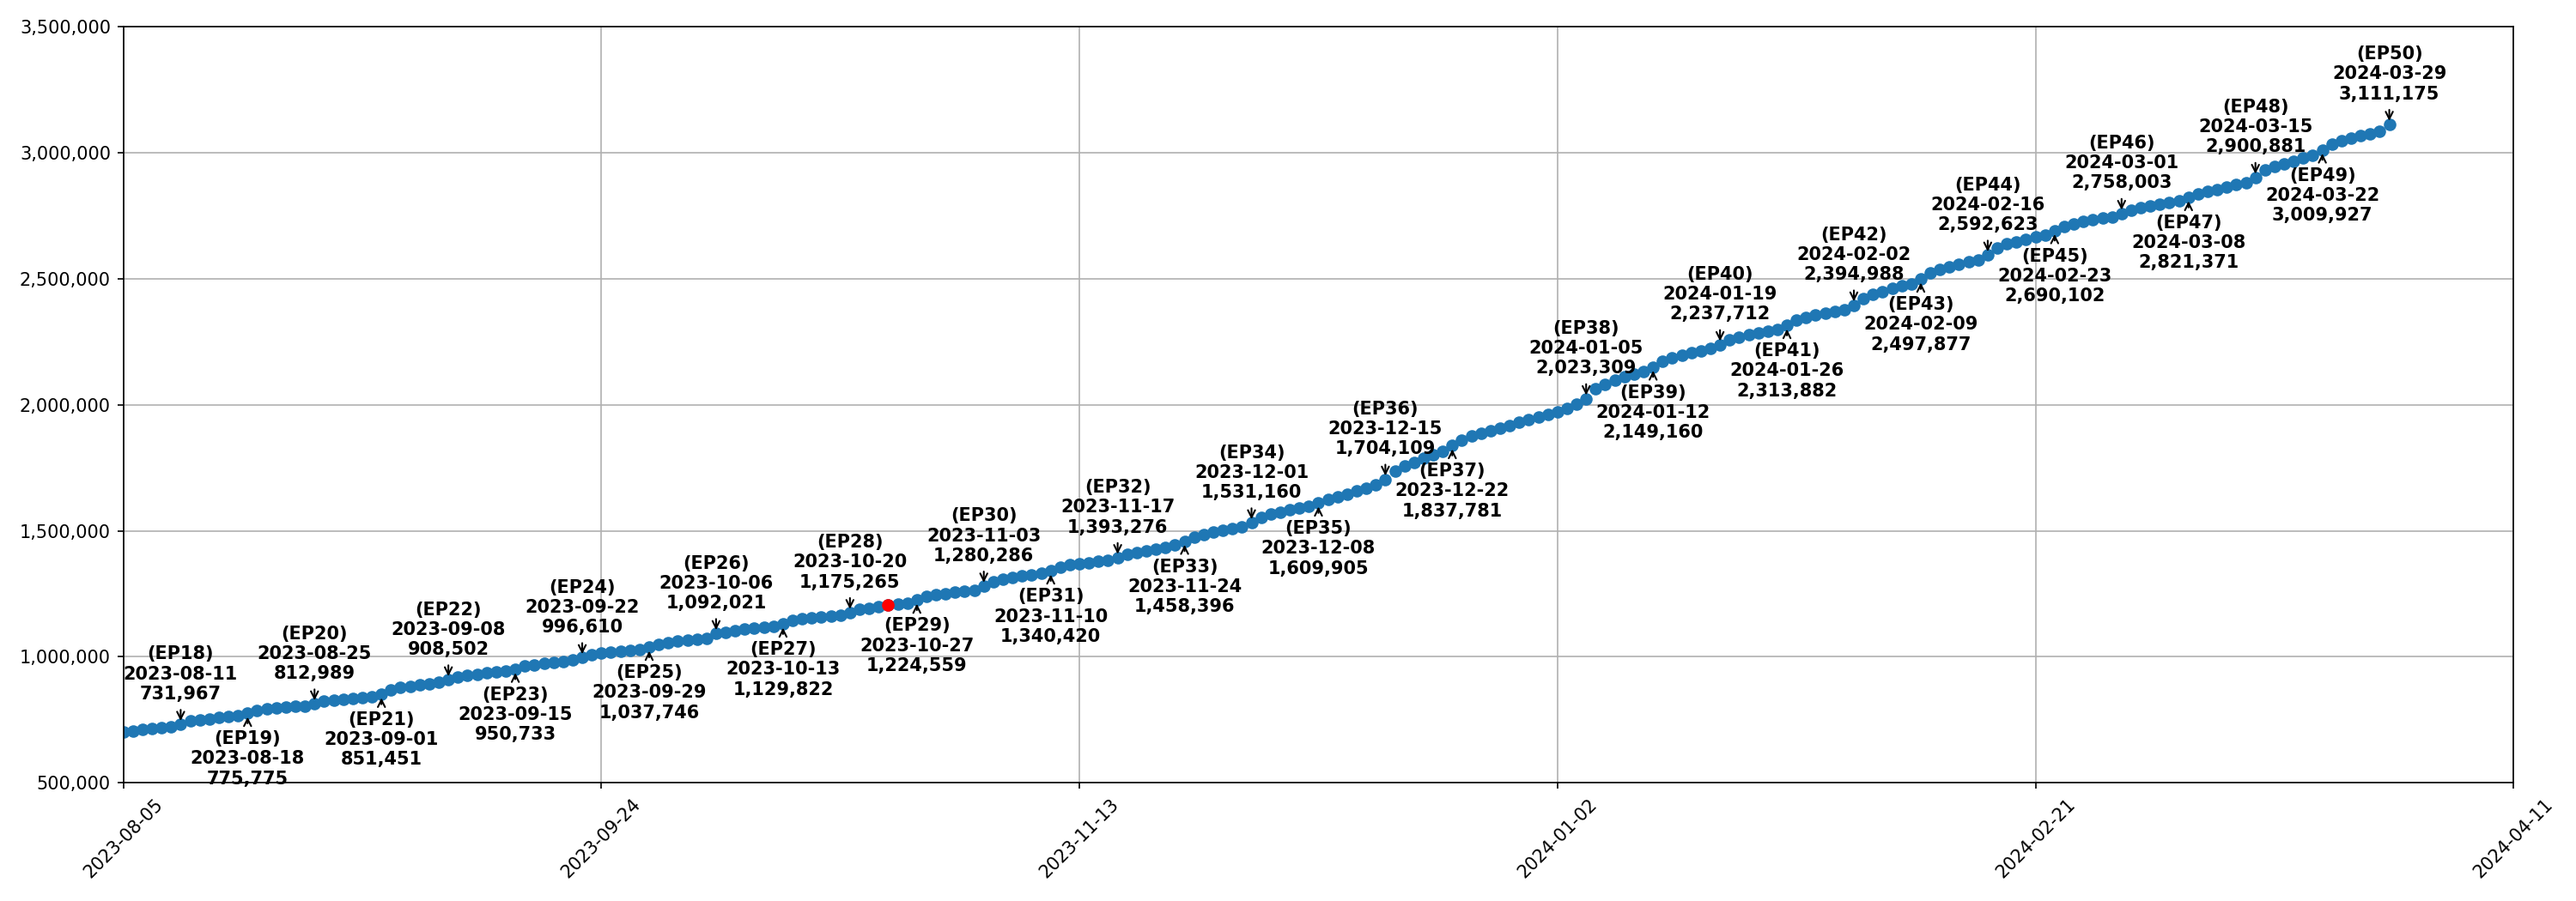
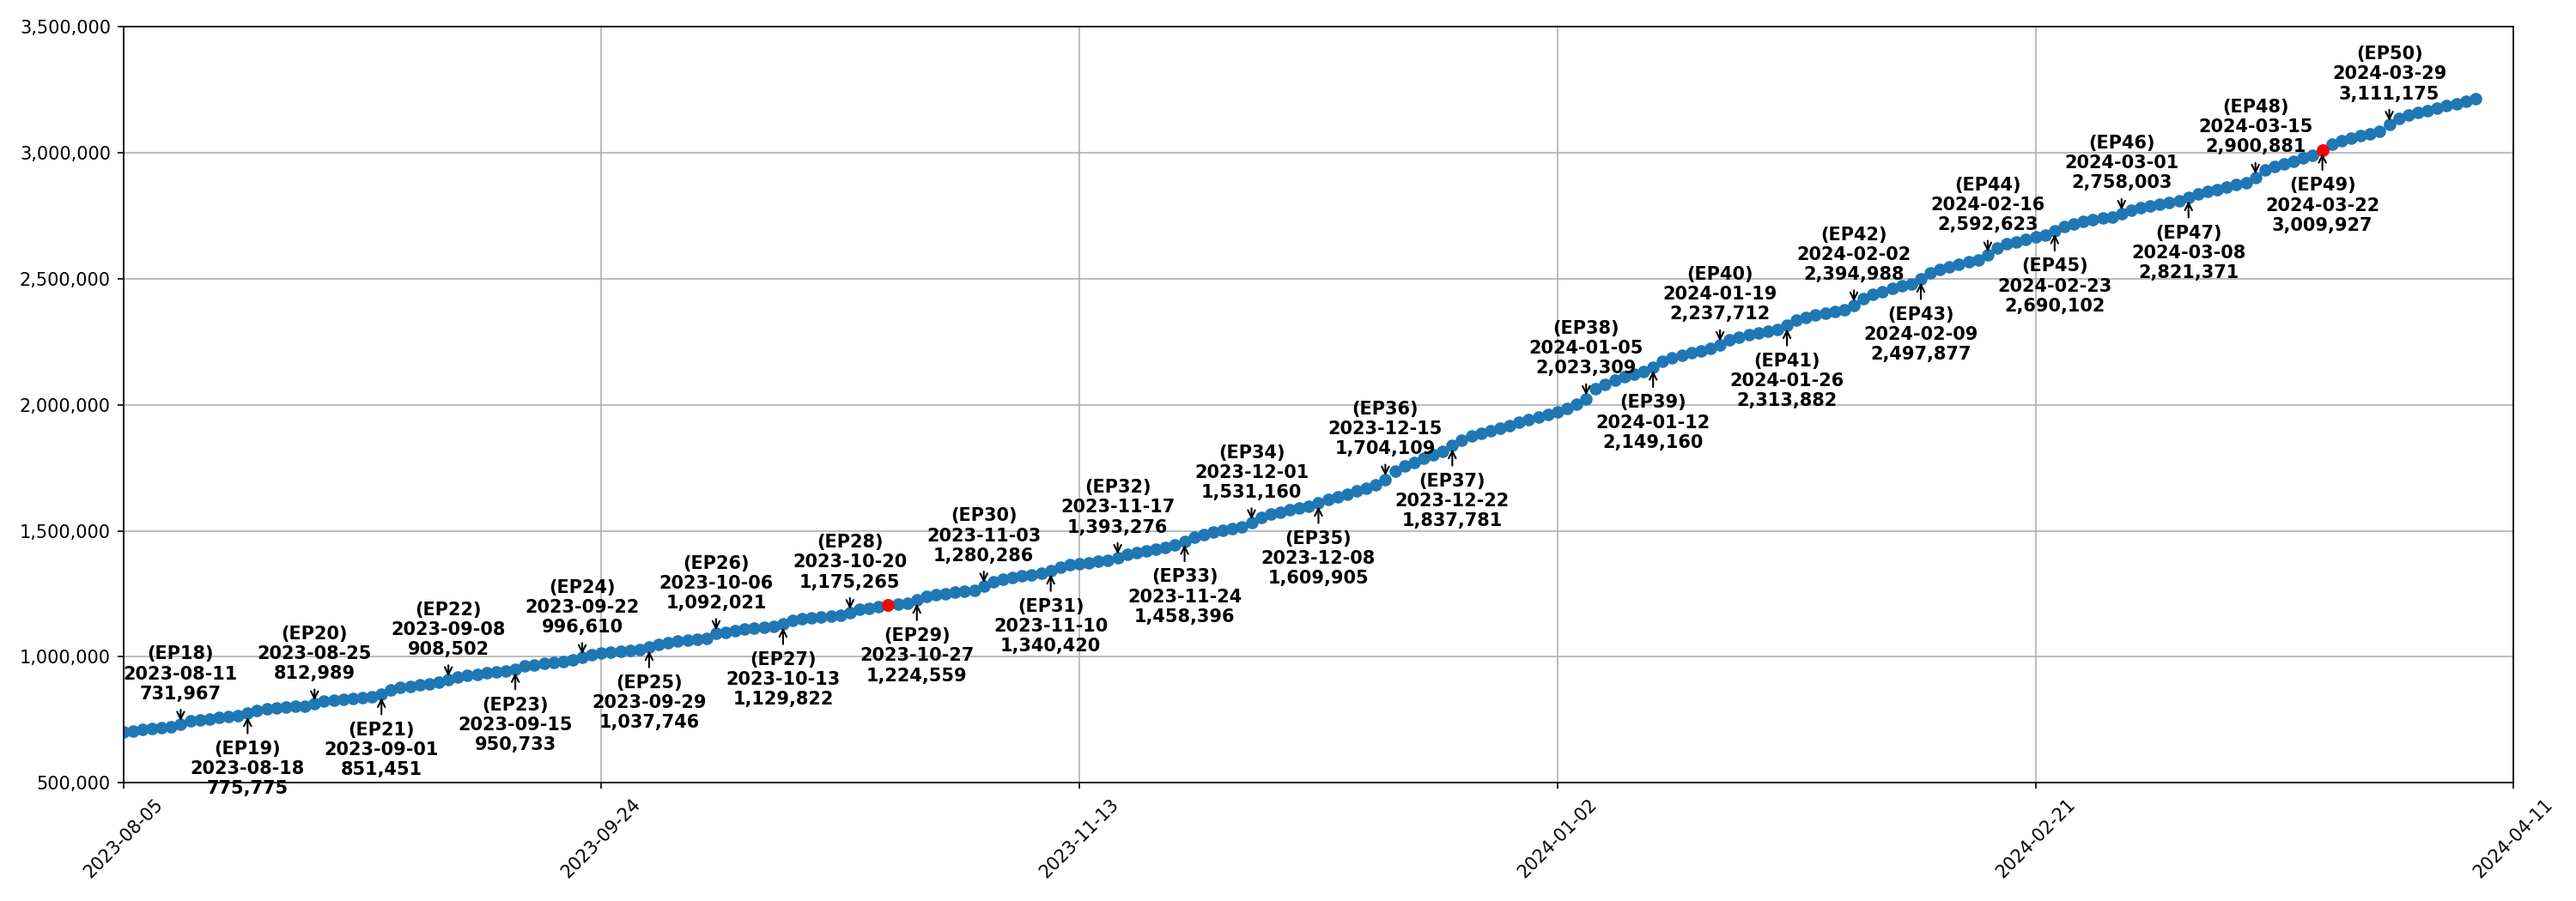
Graph Update

diff --git a/src/lib/prediction.py b/src/lib/prediction.py
@@ -10,7 +10,7 @@ startingDate = datetime.datetime(2023, 8, 5)
 URL = "https://sehasu-counter.s3.ap-northeast-2.amazonaws.com/dailyCounts.csv"
 df = pd.read_csv(URL)
 
-successedDate = [80]
+successedDate = [80, 230]
 
 X = df["date"]
 y = df["totalCount"]
@@ -68,6 +68,10 @@ for i in range(len(X)):
             curr -= 1
             if curr == 37:
                 continue
+            if curr >= 51:
+                curr -= 1
+                if curr == 50:
+                    continue
         plt.annotate(
             "(EP"
             + str(curr)
@@ -82,7 +86,7 @@ for i in range(len(X)):
             arrowprops=dict(arrowstyle="->", color="black"),
         )
         if placing == 100000:
-            placing = -280000
+            placing = -320000
         else:
             placing = 100000
 # 예측기능 범위 시작
